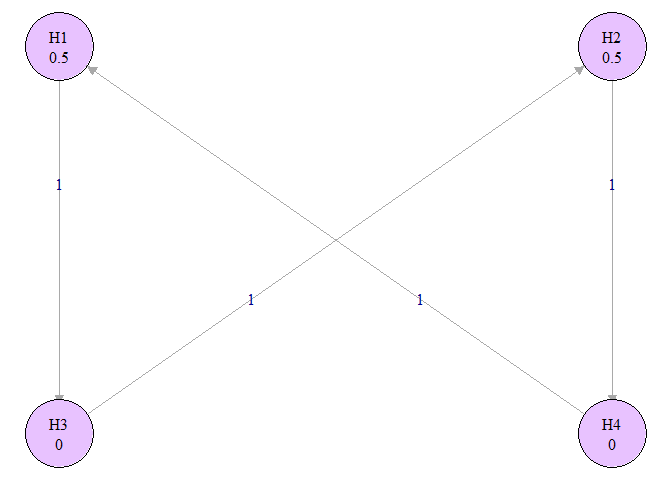
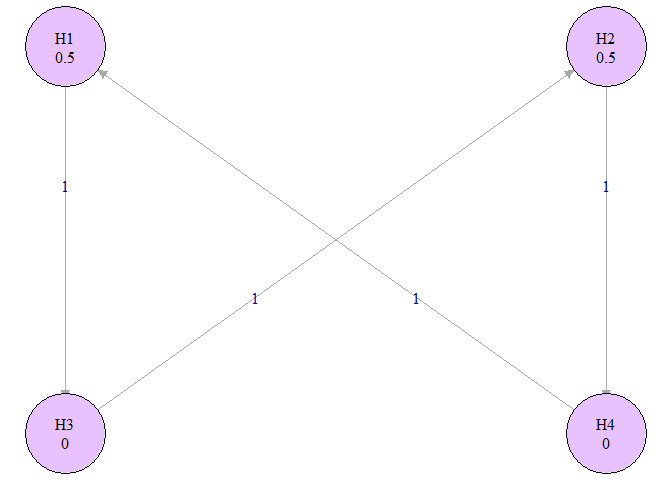
Update rejection orderings function to be modified graph report

diff --git a/README.md b/README.md
@@ -66,7 +66,7 @@ transitions <- rbind(
 hyp_names <- c("H1", "H2", "H3", "H4")
 example_graph <- graph_create(hypotheses, transitions, hyp_names)
 
-plot(example_graph, layout = "grid", asp = .7)
+plot(example_graph, layout = "grid")
 ```
 
 <img src="man/figures/README-create-graph-1.png" width="100%" />
@@ -161,13 +161,26 @@ fewer dependencies, in particular shedding the Java dependency; with
 simpler, more transparent S3 classes; and with improvements to the
 accuracy of the parametric and Simes test methods.
 
-A portion of Simes testing is also implemented in the lrstat package
-(`install.packages("lrstat")`).
+A portion of Simes testing is also implemented in the lrstat package.
 
 ## Citation
 
 ``` r
 citation("graphicalMCP")
+#> To cite graphicalMCP in publications use:
+#> 
+#>   Xi, D.; Brockmann, E. (2023). graphicalMCP: Graph-based multiple
+#>   comparison procedures. version 0.1.0. Gilead Sciences, Inc. Foster
+#>   City, California. https://github.com/Gilead-BioStats/graphicalMCP
+#> 
+#>   Frank Bretz, Martin Posch, Ekkehard Glimm, Florian Klinglmueller,
+#>   Willi Maurer, Kornelius Rohmeyer (2011), Graphical approaches for
+#>   multiple comparison procedures using weighted Bonferroni, Simes or
+#>   parametric tests. Biometrical Journal 53 (6), pages 894--913, Wiley.
+#> 
+#> To see these entries in BibTeX format, use 'print(<citation>,
+#> bibtex=TRUE)', 'toBibtex(.)', or set
+#> 'options(citation.bibtex.max=999)'.
 ```
 
 ## Acknowledgments
@@ -332,9 +345,9 @@ combined</td>
 <strong>alpha</strong>. Closely related to the non-centrality parameter,
 which is the mean of each null <strong>hypothesis</strong> in the
 underlying multivariate normal distribution:</p>
-<p><code>ncp = qnorm(1 - alpha) - qnorm(1 - power_marginal)</code></p></td>
+<p><code>ncp = qnorm(1 - alpha) - qnorm(1 - marginal_power)</code></p></td>
 <td></td>
-<td><code>power_marginal</code></td>
+<td><code>marginal_power</code></td>
 <td>Correlation matrix</td>
 </tr>
 <tr class="even">
